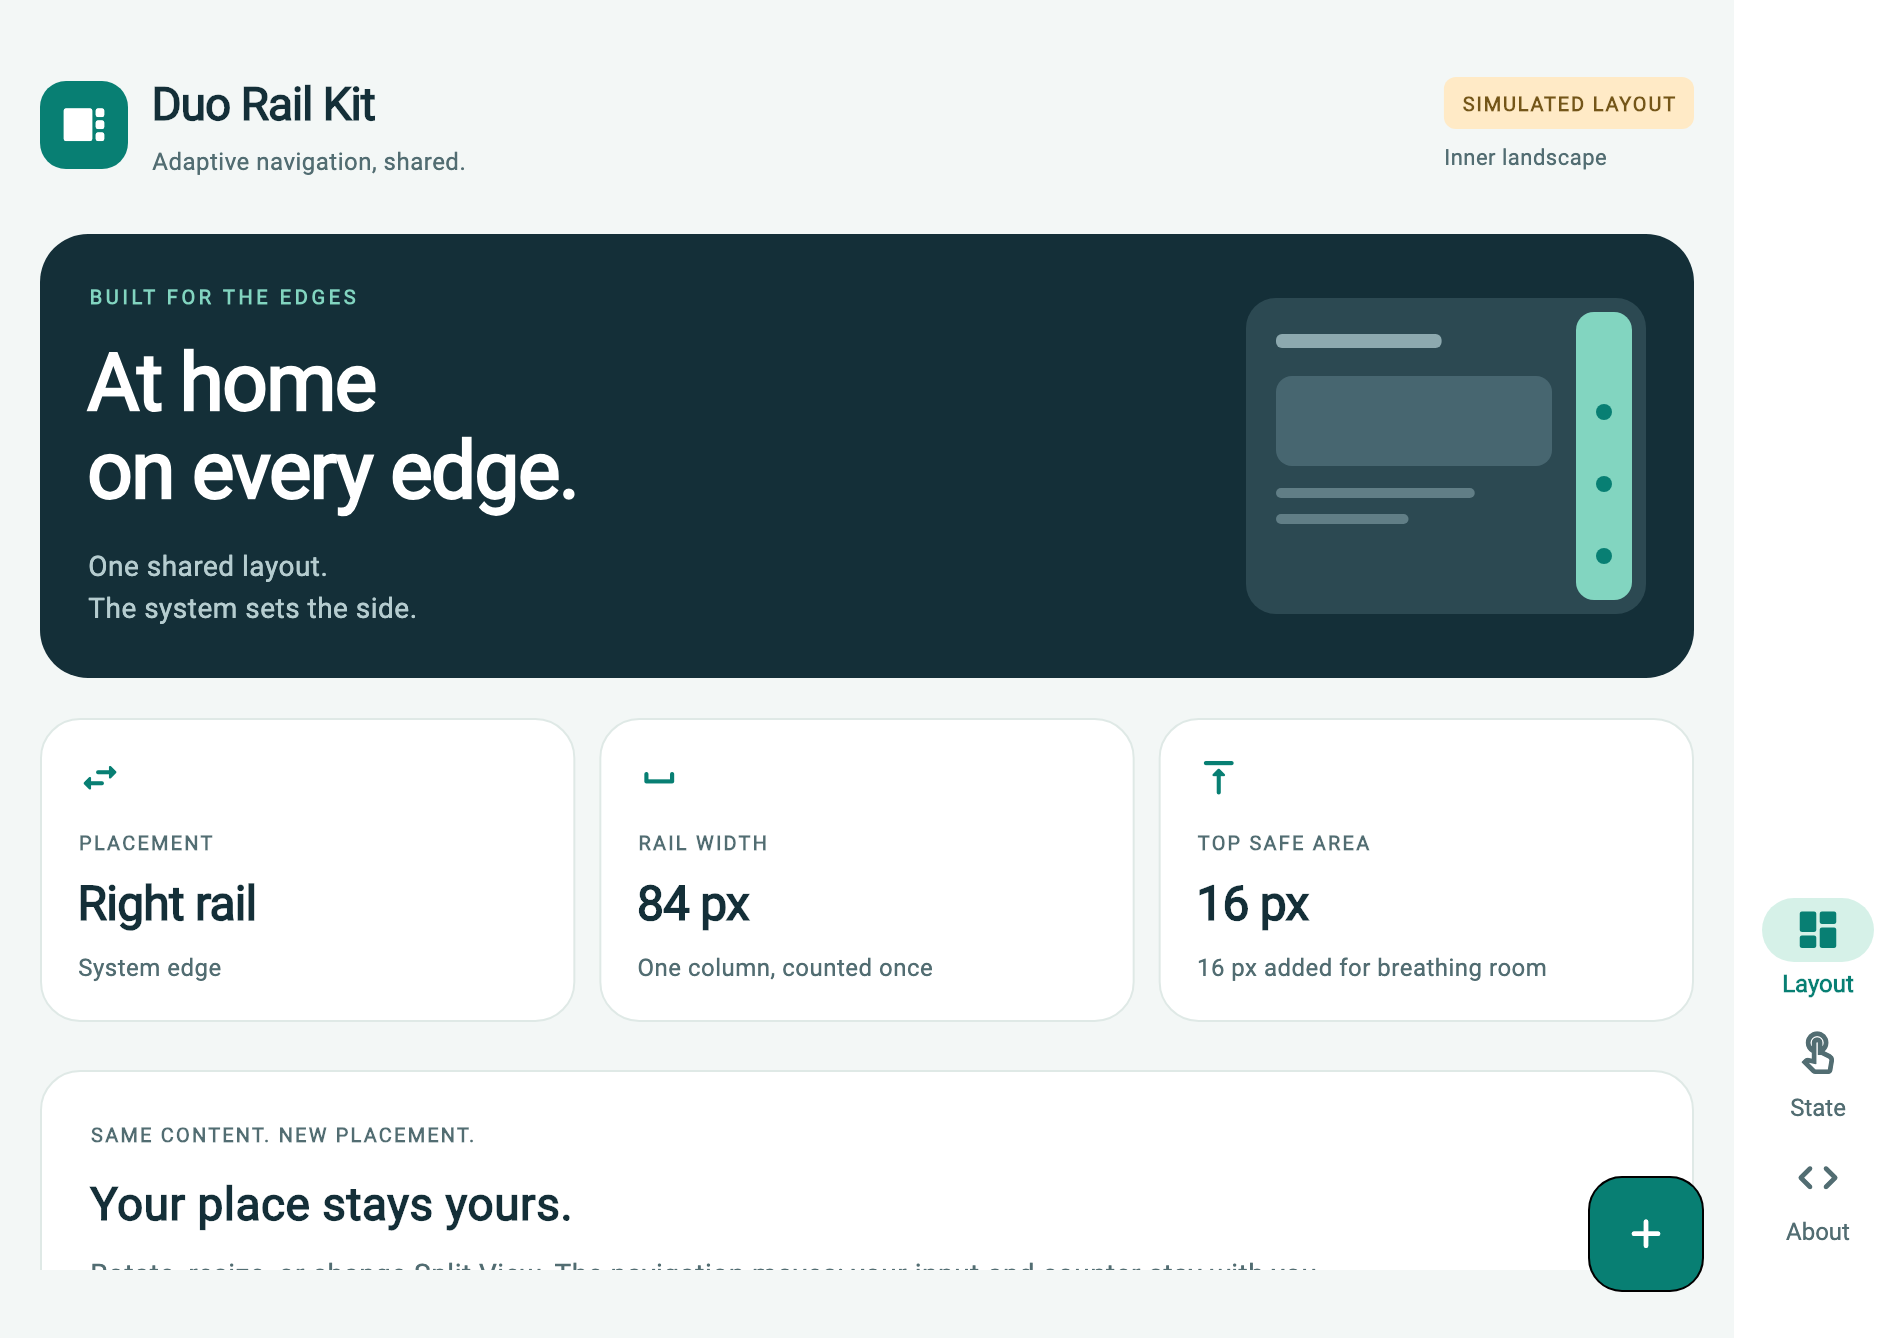
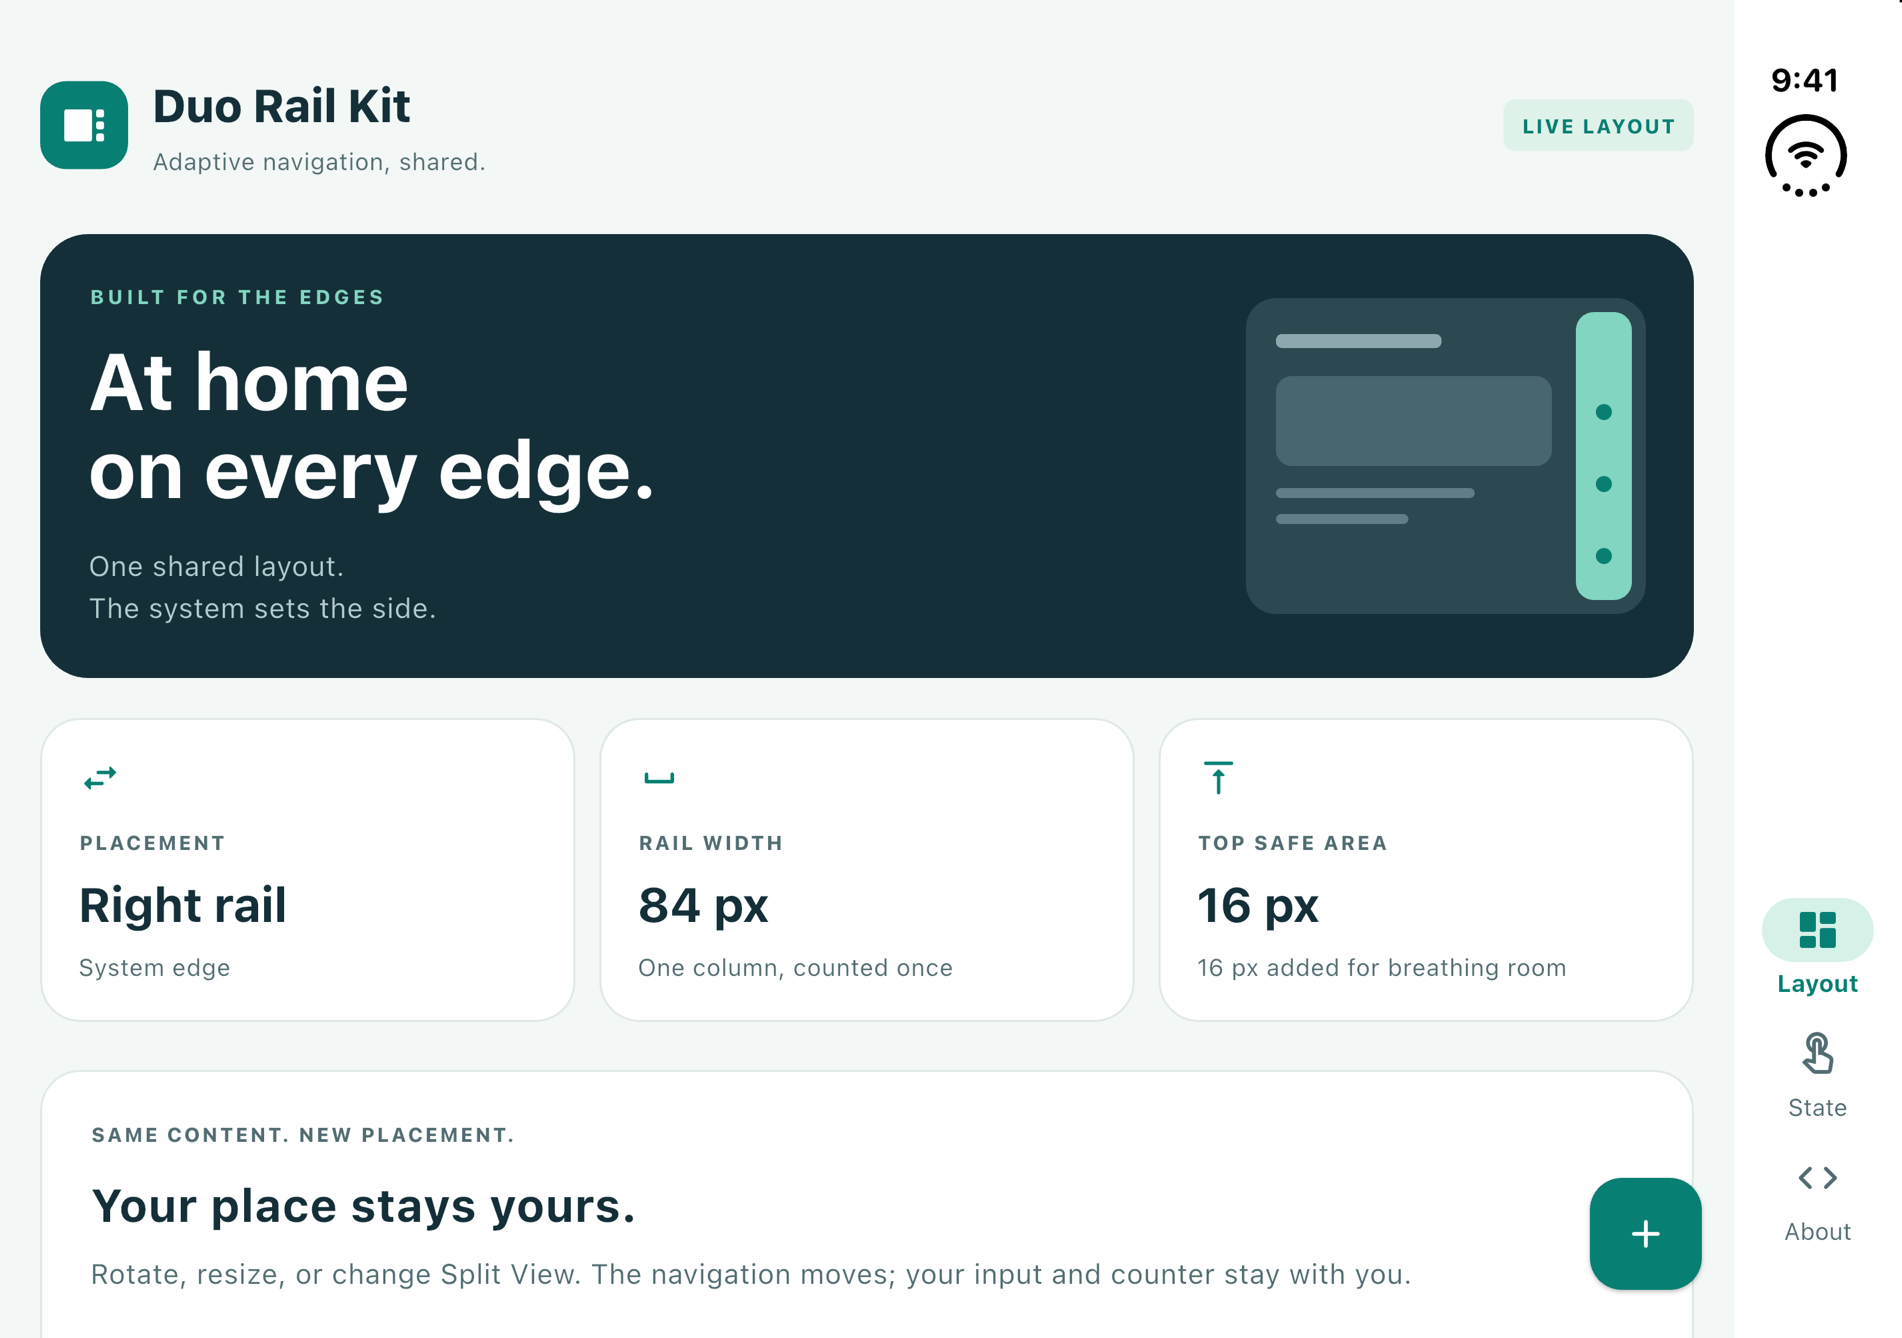
docs: replace the README images with iOS 27.2 Simulator screenshots
The four images were Flutter renders of DuoRailPreviewApp with simulated
geometry. They are now Simulator screenshots of the example's normal entry
point (LIVE LAYOUT): the iPhone Duo inner display, outer display and left
Split View app, and iPhone 17, scaled to 2x the window size.

doc/images/README.md describes how they were taken. The preview renderer now
writes to example/build/simulated_previews/ so it no longer overwrites them.
The README, pubspec screenshot descriptions, third-party notices (text is drawn
in the iOS system font; Roboto is only used by the local renderer), release
checklist and changelog are updated to match.

diff --git a/example/tool/render_screenshots.dart b/example/tool/render_screenshots.dart
@@ -1,5 +1,6 @@
 // Run explicitly from example/: fvm flutter test tool/render_screenshots.dart
-// These are simulated widget renders, not native device screenshots.
+// Writes simulated widget renders to build/simulated_previews/ for local layout checks. They are not native
+// screenshots; the documentation images in doc/images/ are Simulator screenshots (see doc/images/README.md).
 import 'dart:convert';
 import 'dart:io';
 import 'dart:ui' as ui;
@@ -93,7 +94,7 @@ void main() {
         final rendered = await boundary.toImage(pixelRatio: 2);
         try {
           final bytes = await rendered.toByteData(format: ui.ImageByteFormat.png);
-          final file = File('../doc/images/${fixture.file}');
+          final file = File('build/simulated_previews/${fixture.file}');
           await file.parent.create(recursive: true);
           await file.writeAsBytes(bytes!.buffer.asUint8List());
         } finally {

diff --git a/doc/images/README.md b/doc/images/README.md
@@ -1,30 +1,44 @@
 # Example images
 
-These PNGs are rendered from the runnable Flutter example with simulated window
-sizes, system edges, and safe-area insets. They are **not native device captures**
-and do not demonstrate native trait delivery. Every image includes a visible
-`SIMULATED LAYOUT` label. No customer data or external images are used.
+These PNGs are screenshots of the runnable example's normal entry point
+(`example/lib/main.dart`, which reads the native edge) on the iOS 27.2 Simulator
+in Xcode 27.2. Each shows the example's `LIVE LAYOUT` badge. They show the
+system edge as the Simulator delivers it, not behavior on physical hardware.
+No customer data or external images are used.
 
-| Image | Logical size | System edge | Simulated safe area (points) |
+| Image | Device and display | Window (points) | Placement shown |
 | --- | --- | --- | --- |
-| `overview.png` | 951 × 669 | Right | Right 84, bottom 34 |
-| `duo-right.png` | 466 × 678 | Right | Right 84, bottom 34 |
-| `split-left.png` | 469 × 669 | Left | Bottom 34 |
-| `phone.png` | 393 × 852 | None | Top 59, bottom 34 |
+| `overview.png` | iPhone Duo, inner display, landscape | 951 × 669 | Right rail in the system column |
+| `duo-right.png` | iPhone Duo, outer display, portrait | 466 × 678 | Right rail in the system column |
+| `split-left.png` | iPhone Duo, inner display, left app in Split View | 469 × 669 | Left rail on the system edge |
+| `phone.png` | iPhone 17, portrait | 402 × 874 | Bottom bar (width fallback) |
 
-The files are exported at 2× pixel density. Reproduce them from the repository:
+The files are scaled to 2× the window size. `split-left.png` is cropped to the
+left app's window; its rounded window corners are transparent.
 
-```sh
-cd example
-fvm flutter pub get
-fvm flutter test tool/render_screenshots.dart
-```
+## Reproducing
 
-The renderer reads Roboto and Material Icons from the selected Flutter SDK's
-cached material fonts. It does not download fonts or include their binaries in
-the package. See [third-party notices](../../THIRD_PARTY_NOTICES.md) for their
-source and licenses. Example code and these renders otherwise use the package's
-[MIT License](../../LICENSE).
+1. From `example/`, build the app with `fvm flutter pub get` and
+   `fvm flutter build ios --simulator --debug`, then install and launch it with
+   `xcrun simctl install <device> build/ios/iphonesimulator/Runner.app` and
+   `xcrun simctl launch <device> dev.example.duoRailKitExample`.
+2. Use the light appearance and a fixed status bar:
+   `xcrun simctl ui <device> appearance light` and
+   `xcrun simctl status_bar <device> override --time 9:41 --batteryState discharging --batteryLevel 100 --wifiBars 3 --cellularBars 4 --dataNetwork wifi`.
+3. Fold or unfold the iPhone Duo with Device Hub's Closed and Open controls. For
+   Split View, long-press the app icon on the Home screen, choose the Split View
+   action, and open a second app on the right.
+4. Capture a display with `xcrun simctl io <device> screenshot --display=<port> <file>`.
+   `xcrun simctl io <device> enumerate` lists the ports: the inner display's
+   framebuffer is 2007 × 2853 pixels and the outer display's is 1398 × 2034.
+   Scale each capture to 2× the window size.
 
-The capture tool is repository-only; a pub.dev archive includes the finished
-images, not the tool. Use the repository checkout to regenerate them.
+`example/tool/render_screenshots.dart` renders the `DuoRailPreviewApp` fixture
+with simulated geometry into `example/build/simulated_previews/` for local layout
+checks. Those renders show `SIMULATED LAYOUT`, are not committed, and are not
+used here.
+
+The screenshots contain text drawn by iOS in its system font, Simulator
+status-bar elements, and Material Icons glyphs from the font bundled into the
+app. See [third-party notices](../../THIRD_PARTY_NOTICES.md). Example code and
+these images otherwise use the package's [MIT License](../../LICENSE).

diff --git a/THIRD_PARTY_NOTICES.md b/THIRD_PARTY_NOTICES.md
@@ -40,12 +40,22 @@ ANY THEORY OF LIABILITY, WHETHER IN CONTRACT, STRICT LIABILITY, OR TORT
 SOFTWARE, EVEN IF ADVISED OF THE POSSIBILITY OF SUCH DAMAGE.
 ```
 
-## Fonts used in documentation images
+## Fonts in documentation images and previews
 
-The renderer loads `Roboto-Regular.ttf` and `MaterialIcons-Regular.otf` from the
-selected Flutter SDK's `bin/cache/artifacts/material_fonts/`. It does not download
-replacement fonts or embed font files in the repository. The source files and
-license files checked for these notices are in the
+The images in `doc/images/` are iOS Simulator screenshots of the example app.
+Their text is drawn by iOS in its system font: the example requests a `Roboto`
+family that the app does not bundle, so iOS falls back to its own font. The
+status-bar elements and window corners are drawn by the Simulator. No Apple font
+files are included in this repository or the pub.dev archive.
+
+The app bundles only Flutter's `MaterialIcons-Regular.otf`
+(`uses-material-design: true`). The local preview renderer
+(`example/tool/render_screenshots.dart`) loads `Roboto-Regular.ttf` and
+`MaterialIcons-Regular.otf` from the selected Flutter SDK's
+`bin/cache/artifacts/material_fonts/` and writes its previews under
+`example/build/`, which is not committed. Neither path downloads replacement
+fonts or embeds font files in the repository. The source files and license files
+checked for these notices are in the
 [Flutter material-font artifact](https://storage.googleapis.com/flutter_infra_release/flutter/fonts/3012db47f3130e62f7cc0beabff968a33cbec8d8/fonts.zip),
 selected by the SDK's `bin/internal/material_fonts.version`.
 
@@ -56,9 +66,8 @@ selected by the SDK's `bin/internal/material_fonts.version`.
 - Source file: `Roboto-Regular.ttf`; accompanying license: `Roboto_LICENSE.txt`.
 - License: [Apache License, Version 2.0](https://www.apache.org/licenses/LICENSE-2.0).
 
-Roboto is used to render the example text in `doc/images/*.png`. The font file
-is unchanged and is not distributed here. The rendered UI uses the example's
-text, sizes, and colors.
+Roboto is used only by the local preview renderer. It does not appear in
+`doc/images/*.png`, and the font file is not distributed here.
 
 ### Material Icons — Creative Commons Attribution 4.0
 
@@ -71,7 +80,7 @@ text, sizes, and colors.
   with its [legal code](https://creativecommons.org/licenses/by/4.0/legalcode).
 
 Material Icons glyphs are rasterized, scaled, and colored within the example UI
-in `doc/images/*.png`. The font file and glyph outlines are not modified or
+captured in `doc/images/*.png`. The font file and glyph outlines are not modified or
 redistributed. The images' icon elements retain the supplied CC BY 4.0 terms;
 the package's MIT notice does not replace them. Neither Google nor the Flutter
 Authors endorse this package. The supplied license disclaims warranties; see

diff --git a/README.md b/README.md
@@ -11,10 +11,10 @@ on pub.dev; publishing there remains a separate step. See the
 
 ![Example layouts](doc/images/overview.png)
 
-*Flutter-rendered example with simulated insets; not native device captures.*
-[Right rail](doc/images/duo-right.png) ·
+*The example app on the iOS 27.2 Simulator: iPhone Duo inner display, with the rail in the system's right column.*
+[Outer display, right rail](doc/images/duo-right.png) ·
 [Left Split View rail](doc/images/split-left.png) ·
-[Phone layout](doc/images/phone.png)
+[iPhone 17, bottom bar](doc/images/phone.png)
 
 ## Requirements
 
@@ -86,9 +86,12 @@ fvm flutter run
 
 Its Layout, State, and About destinations demonstrate rail placement,
 safe areas, FAB positioning, and state preservation. Normal launches read the
-actual native edge and fall back to a 600-point width rule. The separate
-`DuoRailPreviewApp` fixture supplies simulated geometry for tests and the images
-above; it is not evidence of native event delivery. See
+actual native edge and fall back to a 600-point width rule. The images above are
+Simulator screenshots of this normal entry point; see
+[doc/images/README.md](doc/images/README.md) for how they were taken. They show
+the edge delivered by the Simulator, not behavior on physical hardware. The
+separate `DuoRailPreviewApp` fixture supplies simulated geometry for tests and
+local previews; it is not evidence of native event delivery. See
 [example/lib/app.dart](example/lib/app.dart) for the complete integration.
 
 ## API overview
@@ -290,5 +293,5 @@ and [CHANGELOG.md](CHANGELOG.md) for package changes. Release checks are in
 [docs/publication.md](https://github.com/zawasystem/duo_rail_kit/blob/main/docs/publication.md).
 
 Security reporting is described in [SECURITY.md](SECURITY.md).
-The package is licensed under the [MIT License](LICENSE). Flutter template and
-rendered font/icon attributions are in [THIRD_PARTY_NOTICES.md](THIRD_PARTY_NOTICES.md).
+The package is licensed under the [MIT License](LICENSE). Flutter template, font,
+and icon attributions are in [THIRD_PARTY_NOTICES.md](THIRD_PARTY_NOTICES.md).

diff --git a/example/README.md b/example/README.md
@@ -43,8 +43,11 @@ notices.
 - **About** explains the integration order and layout rules.
 - The floating **+** adds a tap from any destination. Beside the system rail it
   uses `RailSideFab.locationOf` and sits 24 logical pixels above the content
-  bottom, including when the keyboard is open. The example keeps enough scroll
-  padding below its content to reach controls behind the floating action.
+  bottom, including when the keyboard is open. The scroll viewport stays inside
+  the safe area, so caret and focus reveals stay clear of the status bar, but the
+  content is painted past it and is not clipped at the status bar or home
+  indicator. Scroll padding keeps the last controls reachable behind the
+  floating action.
 
 `lib/main.dart` launches `DuoRailExampleApp`; the integration is in `lib/app.dart`.
 `VerticalBarEdge` wraps `SideStatusBarInsets` at the root. The shell uses
@@ -71,7 +74,7 @@ The tests cover live entry, 84-pixel columns on either physical edge, width
 fallbacks, state preservation when moving/removing the rail, RTL, enlarged text,
 and keyboard/FAB geometry. They do not replace native device testing.
 
-`DuoRailPreviewApp`, exported by `lib/main.dart`, is a documentation/test harness:
+`DuoRailPreviewApp`, exported by `lib/main.dart`, is a test and local preview harness:
 
 ```dart
 DuoRailPreviewApp(
@@ -88,3 +91,13 @@ preview displays **SIMULATED LAYOUT** and its label. It injects geometry into th
 same shell without querying the native channel; it is not an iOS emulator or
 evidence that native rotation, folding, or Split View events work. No simulated
 device switcher is exposed in the running app.
+
+`tool/render_screenshots.dart` renders four such previews into
+`build/simulated_previews/` (ignored by Git) for local layout checks:
+
+```sh
+fvm flutter test tool/render_screenshots.dart
+```
+
+The package README's images are Simulator screenshots of the normal entry point
+instead; see [doc/images/README.md](../doc/images/README.md).

diff --git a/docs/publication.md b/docs/publication.md
@@ -25,8 +25,9 @@ See [README limitations](../README.md#native-contract-and-limitations).
 Run package and example formatting, analysis, and tests, then build the iOS
 example and the disposable native host. Run the Android example build. Record
 commands, SDKs, the tested revision, and results; do not substitute results from
-an older revision for a changed release candidate. Documentation previews show
-Flutter layout only and do not replace native runtime checks.
+an older revision for a changed release candidate. The documentation images are
+Simulator screenshots and the local Flutter previews are simulated; neither
+replaces runtime checks on a device.
 
 The publishing dry run must run in an isolated staging copy with
 `publish_to: 'none'` removed only in that copy:
@@ -50,7 +51,7 @@ application files. Validate the README links and images from that file set.
   information when adding or changing published refs.
 - Review [third-party notices](../THIRD_PARTY_NOTICES.md) and the publish archive.
   MIT licensing of this package does not replace the Flutter template license or
-  the rendered font/icon terms. Check other dependency notices as well.
+  the font/icon terms for the documentation images. Check other dependency notices as well.
 - Verify the private reporting channel described in [SECURITY.md](../SECURITY.md).
   Repository visibility alone does not enable private vulnerability reporting.
 - Use isolated hosted or ephemeral runners for public contributions. Confirm

diff --git a/CHANGELOG.md b/CHANGELOG.md
@@ -1,5 +1,16 @@
 # Changelog
 
+## Unreleased
+
+- Example: the content is painted past the top and bottom safe areas instead of
+  being clipped below the status bar and above the home indicator. The scroll
+  viewport stays inside the safe area, so caret and focus reveals stay clear of
+  the status bar.
+- Documentation images are now iOS 27.2 Simulator screenshots of the example's
+  normal entry point: iPhone Duo outer and inner displays, the left Split View
+  app, and iPhone 17. The simulated preview renderer writes to
+  `example/build/simulated_previews/` instead of `doc/images/`.
+
 ## 0.1.0
 
 - Provide Flutter side-rail placement, safe-area spacing, stable content layout,
